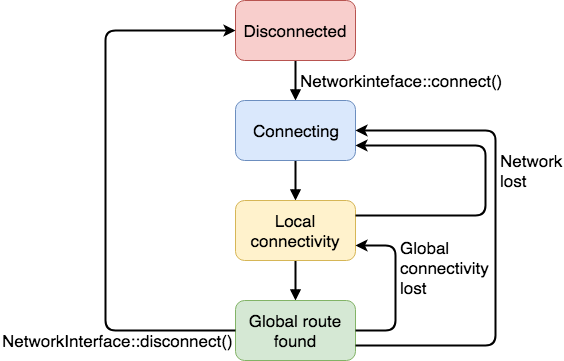
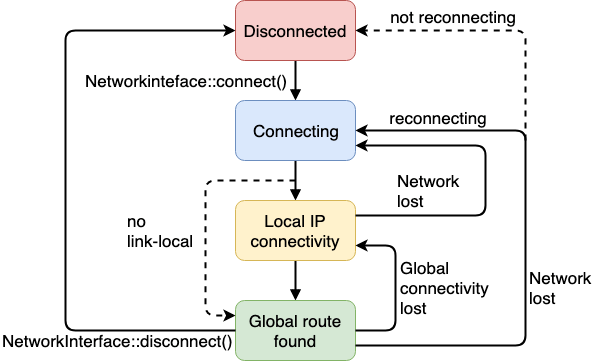
Clarify network state changes.

diff --git a/docs/api/networkinterfaces/networkinterface.md b/docs/api/networkinterfaces/networkinterface.md
@@ -15,11 +15,11 @@ NetworkInterface is also the controlling API that the application uses to specif
 
 When you create a network interface, it starts from the disconnected state. When you call `NetworkInteface::connect()`, the interface stays connected until you call `NetworkInterface::disconnect()`. The following diagram illustrates the state changes:
 
-<span class="images">![](https://s3-us-west-2.amazonaws.com/mbed-os-docs-images/NetworkinterfaceStates.png)<span>Network states</span></span>
+<span class="images">![](../../images/NetworkinterfaceStates.png)<span>Network states</span></span>
 
-The interface handles all state changes itself between `Connecting`, `Local connectivity` and `Global route found`. Calling `NetworkInterface::connect()` might return when either local or global connectivity states are reached. This depends on the connectivity. For example, Ethernet and Wi-Fi interfaces return when global connectivity is reached. 6LoWPAN-based mesh networks depend on the standard you're using. 6LoWPAN-ND returns when it connects to a border router that provides global connection. The thread returns when you create a local mesh network and may later get global connection when it finds a border router.
+The interface handles all state changes itself between `Connecting`, `Local connectivity` and `Global route found`. Calling `NetworkInterface::connect()` might return when either local or global connectivity states are reached. This depends on the connectivity. For example, Ethernet and Wi-Fi interfaces return when global connectivity is reached. 6LoWPAN-based mesh networks depend on the standard you're using. 6LoWPAN-ND returns when it connects to a border router that provides global connection. The Thread returns when you create a local mesh network and may later get global connection when it finds a border router.
 
-When a network or route is lost or any other cause limits the connectivity, the interface may change its state back to `Connecting`, `Local connectivity` or `Disconnected`. In the `Connecting` and `Local connectivity` states, the interface reconnects until the application chooses to call `NetworkInterface::disconnect()`. Depending on the network, this reconnection might have internal back off periods, and not all interfaces implement the reconnection logic.
+When a network or route is lost or any other cause limits the connectivity, the interface may change its state back to `Connecting`, `Local connectivity` or `Disconnected`. In the `Connecting` and `Local connectivity` states, the interface usually reconnects until the application chooses to call `NetworkInterface::disconnect()`. Depending on the network, this reconnection might have internal back off periods, and not all interfaces implement the reconnection logic at all. Refer to table below on how different interfaces behave.
 
 An application may check the connection status by calling `nsapi_connection_status_t get_connection_status()` or register a callback to monitoring status changes. The following table lists defined network states with actions that applictions should take on the state change:
 
@@ -34,6 +34,17 @@ An application may check the connection status by calling `nsapi_connection_stat
 Use the following API to register status callbacks:
 
 - [Network status](network-status.html): API for monitoring network status changes.
+
+Error handling and reconnection logic depends on the network interface used. Use following table to determine what actions your application needs to do on each network type.
+
+| `NetworkInterface` sub class | Does it reconnect automatically? | Possible states |
+|------------------------------|---------------------------------|-----------------|
+| `EthernetInterface` | Yes | 1.`NSAPI_STATUS_DISCONNECTED`<br />2.`NSAPI_STATUS_CONNECTING`<br />3.`NSAPI_STATUS_GLOBAL_UP`|
+| `WiFiInterface` | Yes, when onboard network stack is used.<br />For external modules, it depends on the driver.<br />See examples below. | - |
+| `OdinWiFiInterface` or<br /> `RTWInterface` | Yes | 1.`NSAPI_STATUS_DISCONNECTED`<br />2.`NSAPI_STATUS_CONNECTING`<br />3.`NSAPI_STATUS_GLOBAL_UP`|
+| `ESP8266Interface` | Yes  | 1.`NSAPI_STATUS_DISCONNECTED`<br />2.`NSAPI_STATUS_CONNECTING`<br />3.`NSAPI_STATUS_GLOBAL_UP`|
+| `CellularInterface` | Mostly no | 1.`NSAPI_STATUS_DISCONNECTED`<br />2.`NSAPI_STATUS_CONNECTING`<br />3.`NSAPI_STATUS_GLOBAL_UP`<br />`CellularInterface` may also send Cellular specific states specified in `CellularCommon.h` |
+| `LoWPANNDInterface` or<br />`ThreadInterface` or<br />`WisunInterface` | Yes | 1.`NSAPI_STATUS_DISCONNECTED`<br />2.`NSAPI_STATUS_CONNECTING`<br />4.`NSAPI_STATUS_LOCAL_UP`<br />4.`NSAPI_STATUS_GLOBAL_UP`|
 
 ### Default network interface
 
@@ -96,6 +107,17 @@ if (wifi) {
     // call WiFi-specific methods
 }
 ```
+
+### Notes on portable applications
+
+When application is expected to be portable between different network interfaces, following guidelines should be used:
+
+1. Use only `NetworkInterface::get_default_instance()` for getting the interface.
+2. Register network status handler and implement reconnection logic.
+
+See previous section [Default network interface](#default-network-interface) on how to use the portable API for network interface.
+
+For network status changes, the API is specified in [Network status](network-status.html) section. Being portable means that your application only communicates after `NSAPI_STATUS_GLOBAL_UP` is received and tries to reconnect the network if `NSAPI_STATUS_DISCONNECTED` is received without calling `NetworkInterface::disconnect()`.
 
 ### Related content
 
